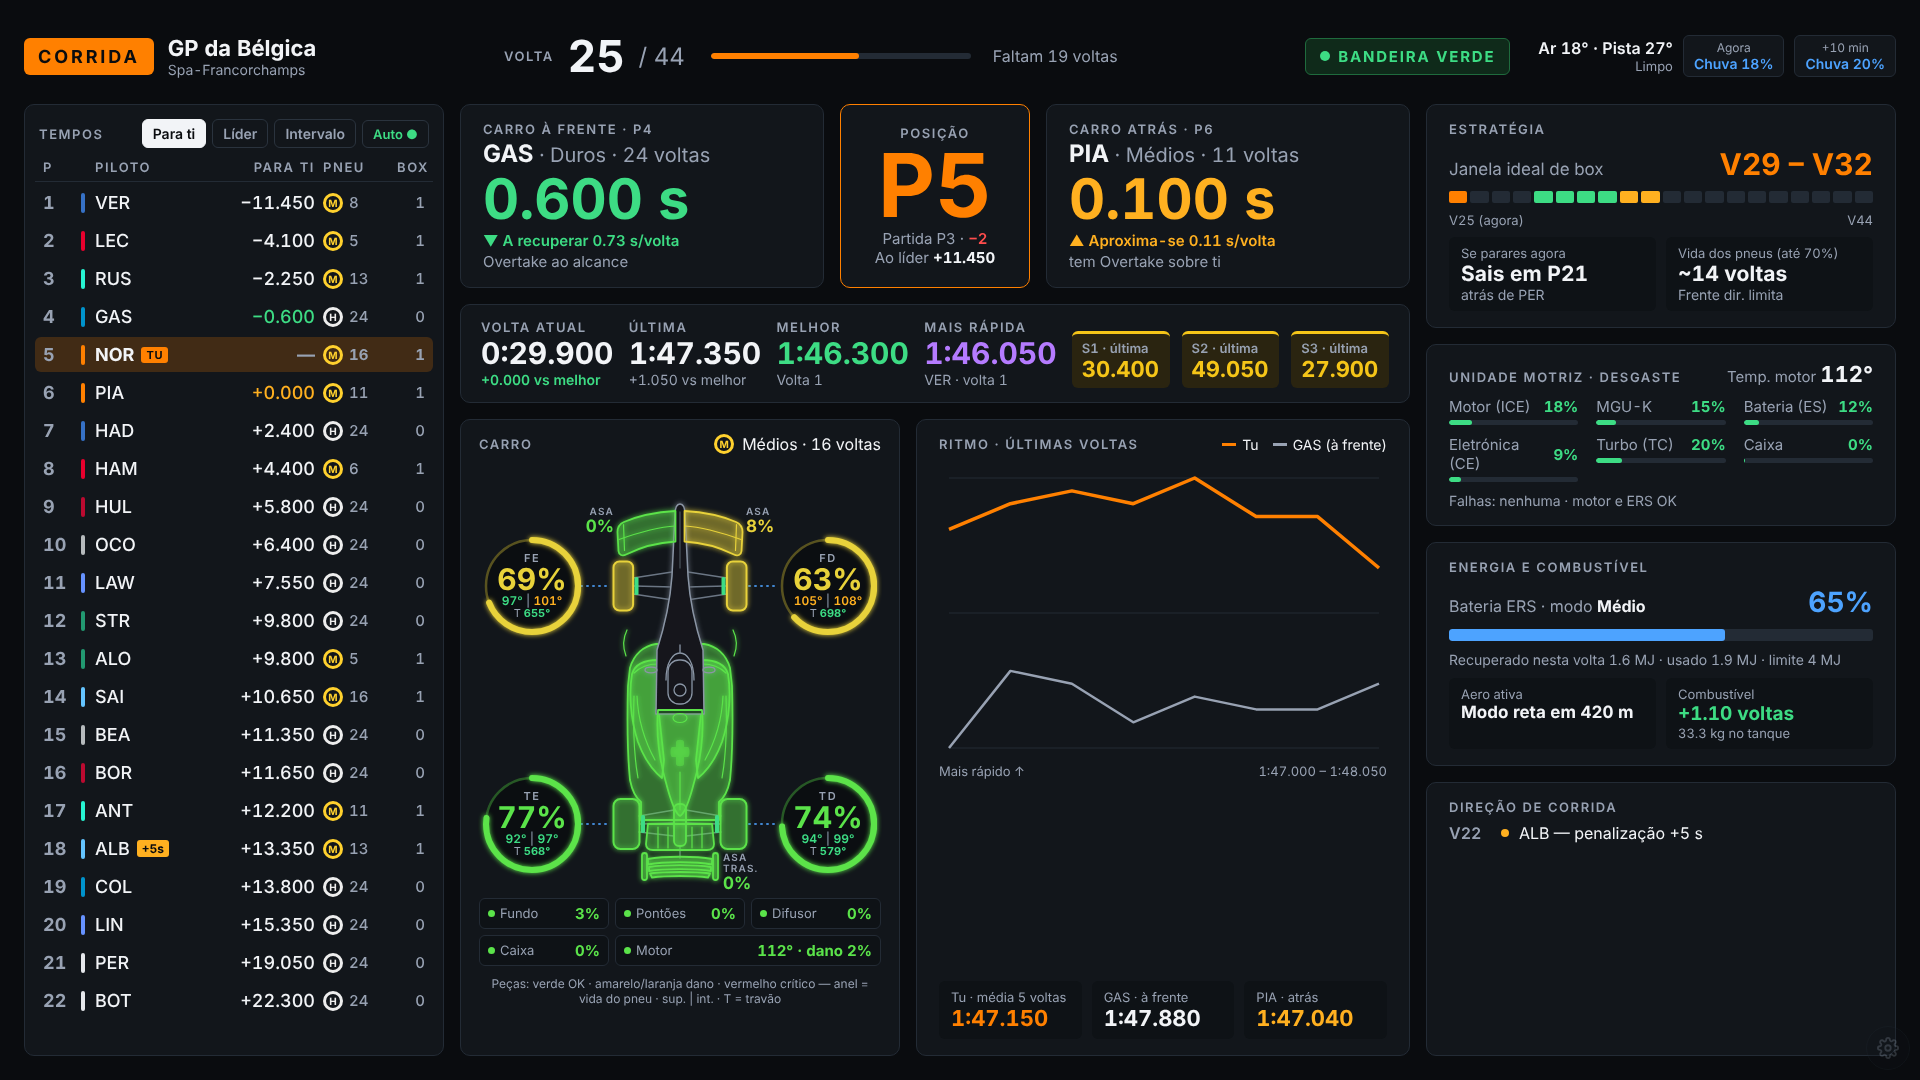
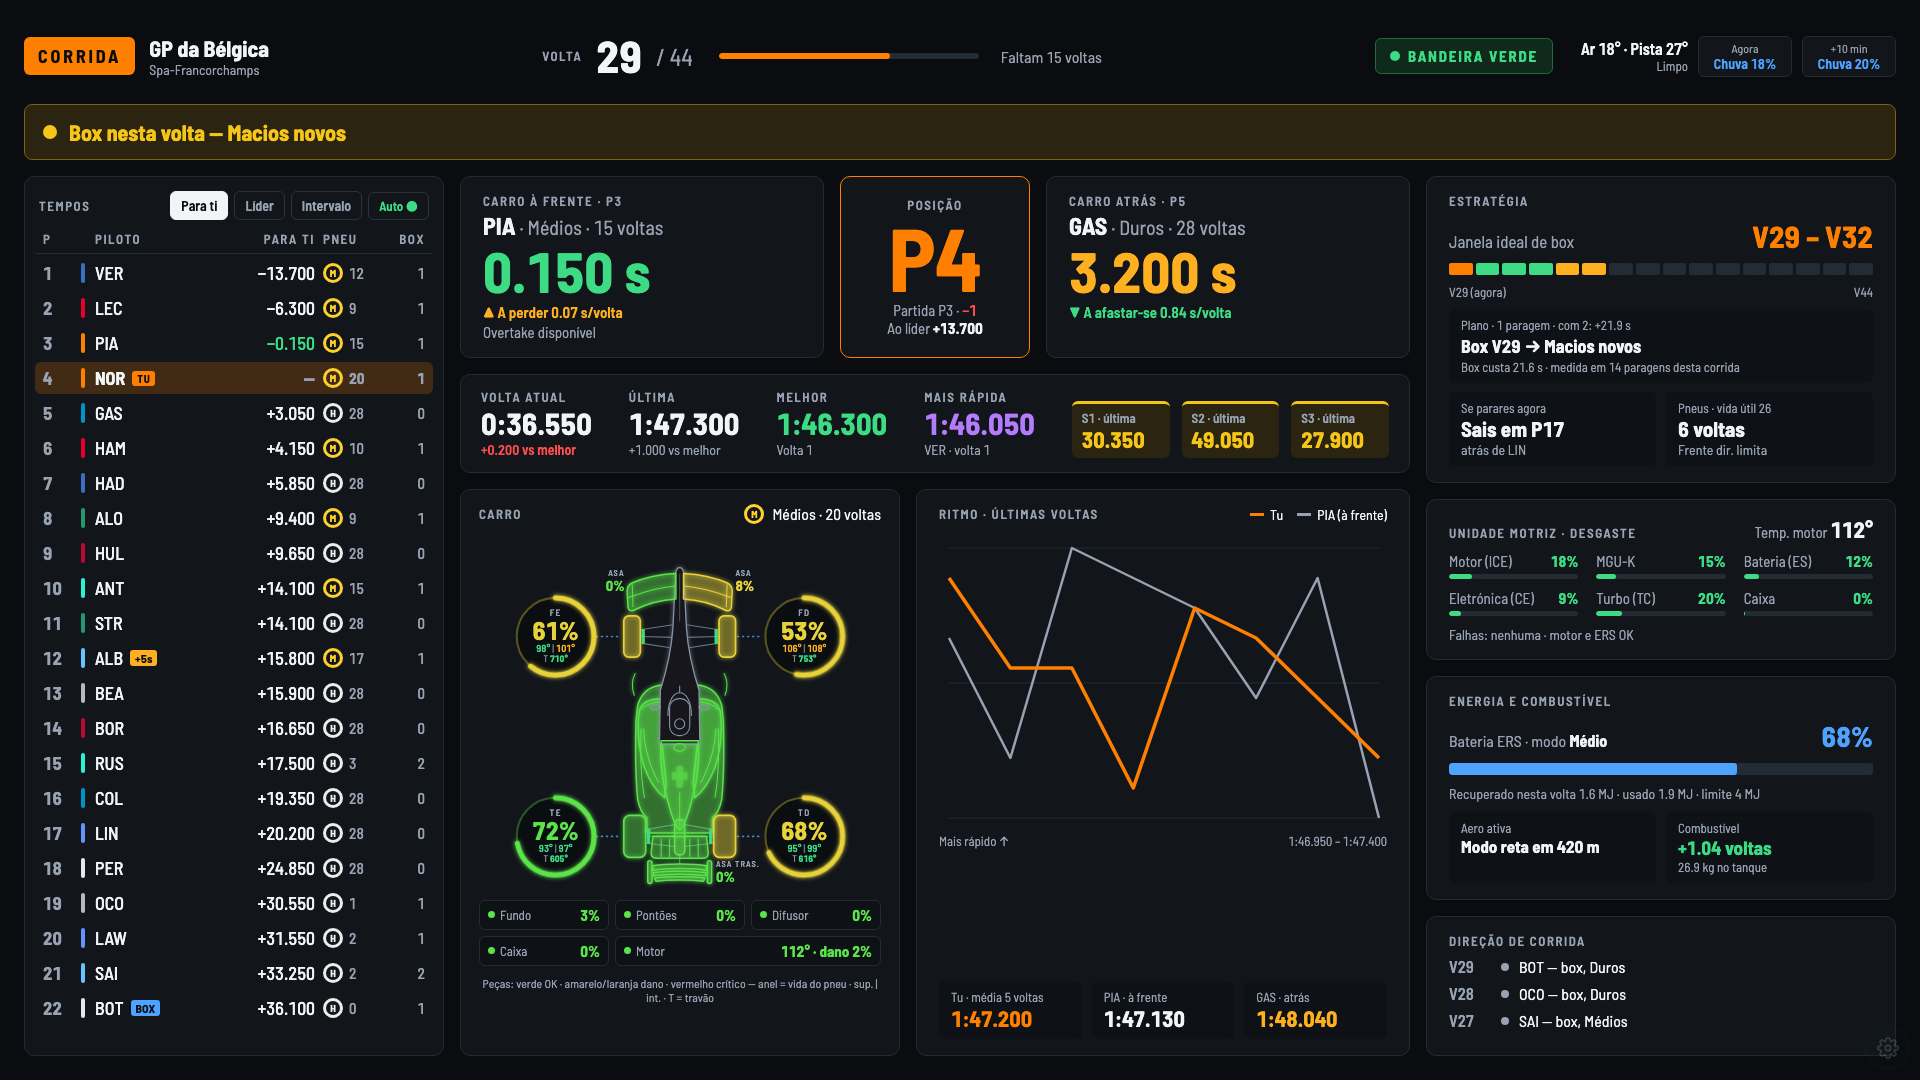
add

diff --git a/web/app.js b/web/app.js
@@ -85,7 +85,7 @@ function blocoCarroPainel(eu, titulo) {
   return `<section class="pd14-18 g10 p" style="display:flex;flex-direction:column">
     <div class="row sb"><span class="l">${titulo}</span>
       <span class="g8 f16 row">${pneu(eu.composto)}${TN[eu.composto] || ''} · ${eu.idade ?? 0} voltas</span></div>
-    ${b.html}
+    <div style="align-self:center;zoom:${alturaUtil < 952 ? 0.84 : 1}">${b.html}</div>
     <div class="cols3 g6 g">${b.chips}</div>
     <span class="f12 tc m">Peças: verde OK · amarelo/laranja dano · vermelho crítico — anel = vida do pneu · sup. | int. · T = travão</span>
   </section>`;
@@ -285,7 +285,7 @@ function renderCorrida(d) {
       </section>
       <section class="cresce mh0 pd16-22 g8 oh p col">
         <span class="l">Direção de corrida</span>
-        ${(d.mensagens || []).map((m) => `<div class="g10 ai-c f16 g" style="grid-template-columns:42px 8px minmax(0,1fr)"><span class="fw6 m">V${m.volta}</span><span class="w8 h8 redondo" style="background:${m.cor}"></span><span>${esc(m.texto)}</span></div>`).join('') || '<span class="m">Sem mensagens</span>'}
+        <div class="so-cabem">${(d.mensagens || []).map((m) => `<div class="g10 ai-c f16 g" style="grid-template-columns:42px 8px minmax(0,1fr)"><span class="fw6 m">V${m.volta}</span><span class="w8 h8 redondo" style="background:${m.cor}"></span><span>${esc(m.texto)}</span></div>`).join('') || '<span class="m">Sem mensagens</span>'}</div>
       </section>
     </div>
   </div>`;
@@ -613,7 +613,7 @@ function compactoCorrida(d) {
     const t = c.eu ? '—' : dv ? (dv > 0 ? '+' : '−') + Math.abs(dv) + ' V' : fmtRel((c.lider_ms - meu.lider_ms) / 1000);
     return `<div class="k-fila${c.eu ? ' eu' : ''}" style="${c.eu ? `background:${c.cor}33` : ''}"><span class="m fw7">${c.pos}</span><span class="barra-eq" style="background:${c.cor}"></span>${linhaPiloto(c)}<span class="tr">${t}</span>${pneu(c.composto)}</div>`;
   }).join('');
-  const vida = eu.vida_restante_voltas != null ? `~${eu.vida_restante_voltas} voltas` : 'a calcular…';
+  const vida = eu.vida_restante_voltas != null ? `${eu.vida_fonte === 'do jogo' ? '' : '~'}${eu.vida_restante_voltas} voltas` : 'a calcular…';
   const margem = eu.margem_voltas;
   return `${kTopo(d, s.nome, `<span class="f32 fw7">V${volta}</span><span class="f20 m">/ ${total || '—'}</span>`, pilulaBandeira(d))}
   <div class="k-grelha">
@@ -624,7 +624,7 @@ function compactoCorrida(d) {
     ${kCartao('Tempos', `${kLinha('Volta atual', fmtV(eu.atual_ms))}
       ${kLinha('Delta', eu.delta_ms == null ? '—' : fmtD(eu.delta_ms), eu.delta_ms == null ? null : eu.delta_ms <= 0 ? '#3DDC84' : '#FF4D4D')}
       ${kLinha('Última', fmtV(eu.ultima_ms))}${kLinha('Melhor', fmtV(eu.melhor_ms), '#3DDC84')}`)}
-    ${kCartao(`Pneus · ${TN[eu.composto] || '—'} · ${eu.idade ?? 0} voltas`, `${kPneus(eu)}${kLinha('Vida (até 70%)', vida)}
+    ${kCartao(`Pneus · ${TN[eu.composto] || '—'} · ${eu.idade ?? 0} voltas`, `${kPneus(eu)}${kLinha(eu.vida_fonte === 'do jogo' ? 'Voltas que restam' : 'Vida (até 70%)', vida)}
       ${eu.desgaste_fonte && eu.desgaste_fonte !== 'esta sessão' ? `<span class="f13 m">${esc(eu.desgaste_fonte)}</span>` : ''}`)}
     ${kCartao('Estratégia', `${kLinha('Janela de box', s.box_ideal ? `V${s.box_ideal}–V${s.box_ultima || s.box_ideal}` : '—', eu.cor)}
       ${kLinha('Se parares agora', cr.reentrada ? 'P' + cr.reentrada.pos : '—')}
@@ -688,7 +688,7 @@ function compactoTreinos(d) {
     ${kCartao('Ritmo do stint', lg ? `${kLinha('Média', fmtV(lg.media_ms))}${kLinha('Degradação', fmtD(lg.degradacao_ms) + ' s/volta', '#FFB020')}
       ${kLinha('Consistência', '±' + (lg.consistencia_ms / 1000).toFixed(2) + ' s', lg.consistencia_ms < 200 ? '#3DDC84' : '#FFB020')}` : '<span class="f16 m">Faz 2 voltas seguidas no mesmo pneu</span>')}
     ${kCartao('Desgaste por volta', `<div class="k-pneus">${[2, 3, 0, 1].map((k) => `<div class="cx"><span class="f13 m">${RODA[k]}</span><span class="f24 fw7"${eu.pneu_limite === k ? ' style="color:#FFB020"' : ''}>${taxa ? taxa[k].toFixed(1) + '%' : '—'}</span></div>`).join('')}</div>
-      ${kLinha('Vida estimada', eu.vida_total_voltas != null ? '~' + eu.vida_total_voltas + ' voltas' : 'a calcular…')}`)}
+      ${kLinha(eu.vida_fonte === 'do jogo' ? 'Vida útil (jogo)' : 'Vida estimada', eu.vida_total_voltas != null ? (eu.vida_fonte === 'do jogo' ? '' : '~') + eu.vida_total_voltas + ' voltas' : 'a calcular…')}`)}
     ${kCartao('Combustível para a corrida', `${kLinha('Consumo', consumo ? consumo.toFixed(2) + ' kg/volta' : 'a calcular…')}
       ${kLinha(voltasCorrida ? voltasCorrida + ' voltas + 1' : 'Voltas da corrida', totalKg ? totalKg + ' kg' : '—', eu.cor)}
       ${t.plano_corrida ? kLinha('Estratégia', esc(textoStints(t.plano_corrida))) : ''}`)}
@@ -744,8 +744,8 @@ function itensResumo(d) {
   }
   if (r.stints && r.stints.length) itens.push(['Stints', `${barraStints(r.stints)}<span class="f16 m">${r.voltas} voltas</span>`]);
   if (r.tabela && r.tabela.length) {
-    itens.push(['Classificação', `<div class="col g2">${r.tabela.map((c) => `<div class="k-fila${c.eu ? ' eu' : ''}" style="height:28px;${c.eu ? `background:${c.cor}33` : ''}">
-      <span class="m fw7">${c.pos}</span><span class="barra-eq" style="background:${c.cor}"></span><span>${esc(c.codigo)}</span><span class="tr">${c.pontos} pts</span><span></span></div>`).join('')}</div>`]);
+    itens.push(['Classificação', `<div class="col g2 cresce">${r.tabela.map((c) => `<div class="k-fila${c.eu ? ' eu' : ''}" style="height:28px;${c.eu ? `background:${c.cor}33` : ''}">
+      <span class="m fw7">${c.pos}</span><span class="barra-eq" style="background:${c.cor}"></span><span>${esc(c.codigo)}</span><span class="tr">${c.pontos} pts</span><span></span></div>`).join('')}</div>`, ' data-alto']);
   }
   if (r.programa) {
     itens.push(['Programa', `<span class="f40 fw7${r.programa.feitas === r.programa.total ? ' c-verde' : ''}">${r.programa.feitas} de ${r.programa.total}</span>
@@ -764,7 +764,7 @@ function itensResumo(d) {
 function renderResumo(d) {
   const r = d.resumo;
   return `${cabecalho(d, 'Fim · ' + r.sessao, d.eu.cor, `<span class="f32 fw7">Resumo da sessão</span>${r.fonte ? `<span class="f15 m">${esc(r.fonte)}</span>` : ''}`, '')}
-    <div class="resumo-grelha">${itensResumo(d).map(([t, c]) => kCartao(t, c)).join('')}</div>`;
+    <div class="resumo-grelha">${itensResumo(d).map(([t, c, extra]) => kCartao(t, c, extra)).join('')}</div>`;
 }
 function compactoResumo(d) {
   const r = d.resumo;

diff --git a/web/estilo.css b/web/estilo.css
@@ -219,3 +219,8 @@ html.compacto .alerta { flex: none; padding: 12px 14px; font-size: 18px; white-s
 .resumo-grelha { flex: 1; min-height: 0; display: grid; grid-template-columns: repeat(3, minmax(0, 1fr)); grid-auto-rows: minmax(0, 1fr); gap: 16px; }
 .resumo-grelha .k-cartao { padding: 22px 26px; gap: 10px; justify-content: center; }
 .resumo-grelha .k-grande { font-size: 120px; }
+/* lista que só mostra as linhas que cabem inteiras: as que sobram passam para uma coluna escondida */
+.so-cabem { flex: 1; min-height: 0; display: flex; flex-direction: column; flex-wrap: wrap; column-gap: 40px; row-gap: 8px; overflow: hidden; align-content: flex-start; }
+.so-cabem > * { width: 100%; }
+.resumo-grelha { grid-auto-flow: dense; }
+.resumo-grelha [data-alto] { grid-row: 1 / span 3; grid-column: 3; justify-content: flex-start; }

diff --git a/testes/teste_estado.py b/testes/teste_estado.py
@@ -496,6 +496,7 @@ class TesteResumo(ComMemoriaTemporaria):
         self.assertEqual((r['posicao'], r['grelha'], r['pontos'], r['resultado']), (3, 5, 15, 'Terminou'))
         self.assertEqual(r['stints'], [{'composto': 'S', 'voltas': 18}, {'composto': 'M', 'voltas': 26}])
         self.assertEqual(r['para_vencedor_s'], 12.5)
+        self.assertEqual(s.fotografia()['alertas'], [])        # corrida acabada: sem alertas
 
     def test_treinos_no_fim_da_sessao(self):
         s = alimentar_demo(E.Sessao(guardar=False), 'treinos', passos=60)

diff --git a/telemetria/estado.py b/telemetria/estado.py
@@ -717,7 +717,7 @@ class Sessao:
         else:
             out['treinos'] = self._treinos(carros)
         out['sessao']['chuva'] = self._chuva_prevista()
-        out['alertas'] = self._alertas(out)
+        out['alertas'] = [] if self.fim_sessao else self._alertas(out)   # sessão acabada: já não há nada a avisar
         if self.fim_sessao:
             out['resumo'] = self._resumo(out)
         return out

diff --git a/README.md b/README.md
@@ -24,7 +24,7 @@ Um ecrã próprio para **corrida**, **qualificação** e **treinos livres**, que
 
 <img src="imagens/corrida.png" alt="Ecrã de corrida do F1 Dash: classificação, carro da frente e de trás, tempos, estado do carro, estratégia e unidade motriz" width="100%">
 
-<sub>Ecrã de corrida no modo de demonstração, com dados simulados.</sub>
+<sub>Ecrã de corrida no modo de demonstração, com dados simulados: volta 29, plano a pedir a paragem nesta volta.</sub>
 
 </div>
 
@@ -192,11 +192,22 @@ As corridas ficam guardadas por circuito **e pela duração escolhida no jogo**:
 
 ### 🏁 Fim da sessão
 
+<img src="imagens/resumo-corrida.png" alt="Resumo no fim da corrida: posição final, pontos, tempo total, paragens, stints e classificação" width="100%">
+
 Quando a sessão acaba, o painel mostra um resumo sozinho, até começar a seguinte:
 
 - **Corrida:** posição, lugares ganhos, pontos, tempo total e diferença para o vencedor, paragens, penalizações, stints e classificação. Tudo vem da classificação final que o jogo envia.
 - **Qualificação:** posição de partida, diferença para a pole e se passaste o corte.
 - **Treinos:** o que ficou por fazer no programa, ritmo de corrida, consumo e desgaste guardados, a estratégia provável e a sessão seguinte.
+
+<details>
+<summary><b>Ver o resumo dos treinos</b></summary>
+
+<br>
+
+<img src="imagens/resumo-treinos.png" alt="Resumo no fim dos treinos: programa, ritmo de corrida, medições guardadas, estratégia provável e sessão seguinte" width="100%">
+
+</details>
 
 ### 🚨 Alertas
 
@@ -220,6 +231,8 @@ Ao arrancar, o painel mostra o endereço para usar noutro aparelho:
 ```text
 [OK] No tablet ou telemóvel (mesma rede Wi-Fi): http://192.168.1.20:8080
 ```
+
+<img src="imagens/telemovel.png" alt="Vista compacta no telemóvel: corrida, qualificação e treinos" width="100%">
 
 Abre esse endereço no browser do tablet ou do telemóvel, ligado ao mesmo Wi-Fi do PC. Em ecrãs pequenos, o painel passa sozinho para a **vista compacta**: cartões grandes com o essencial (posição, diferenças, tempos, pneus, estratégia) que se leem de relance e se ajustam ao ecrã. Podes ter o PC e o tablet abertos ao mesmo tempo.
 
